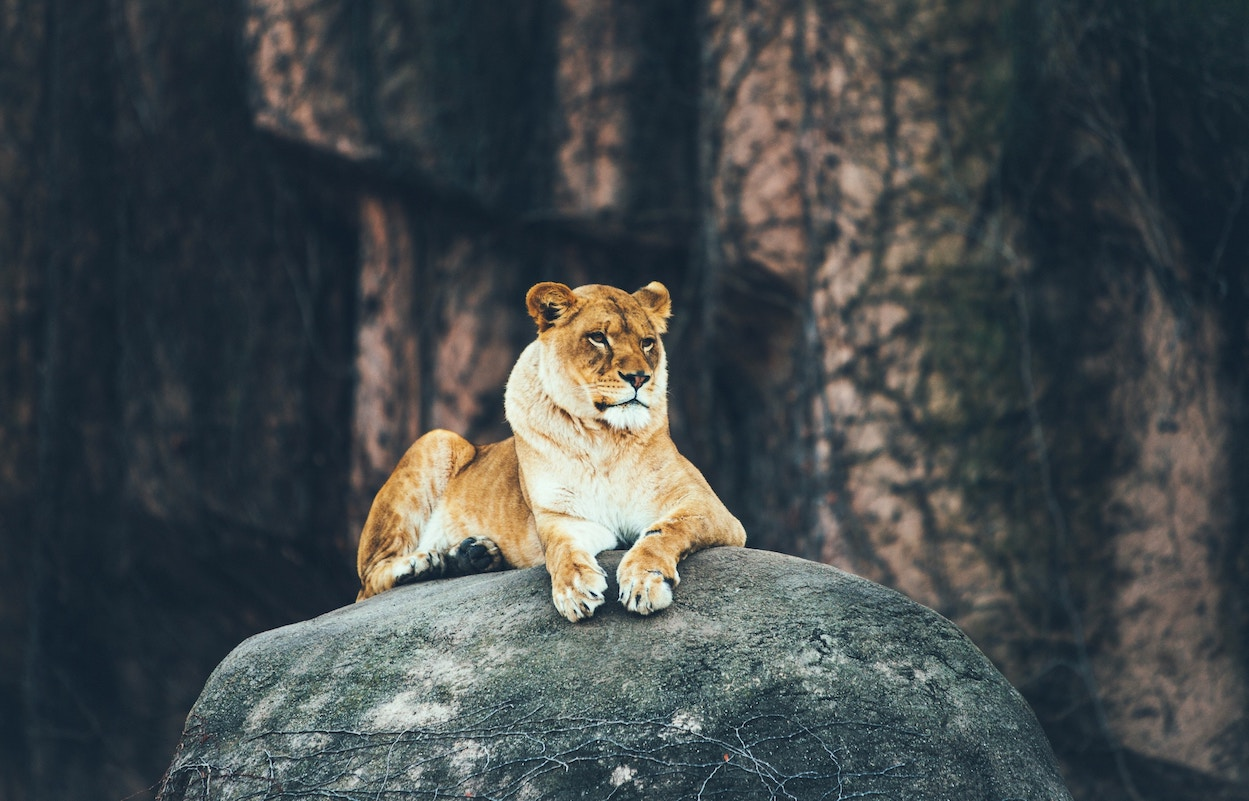
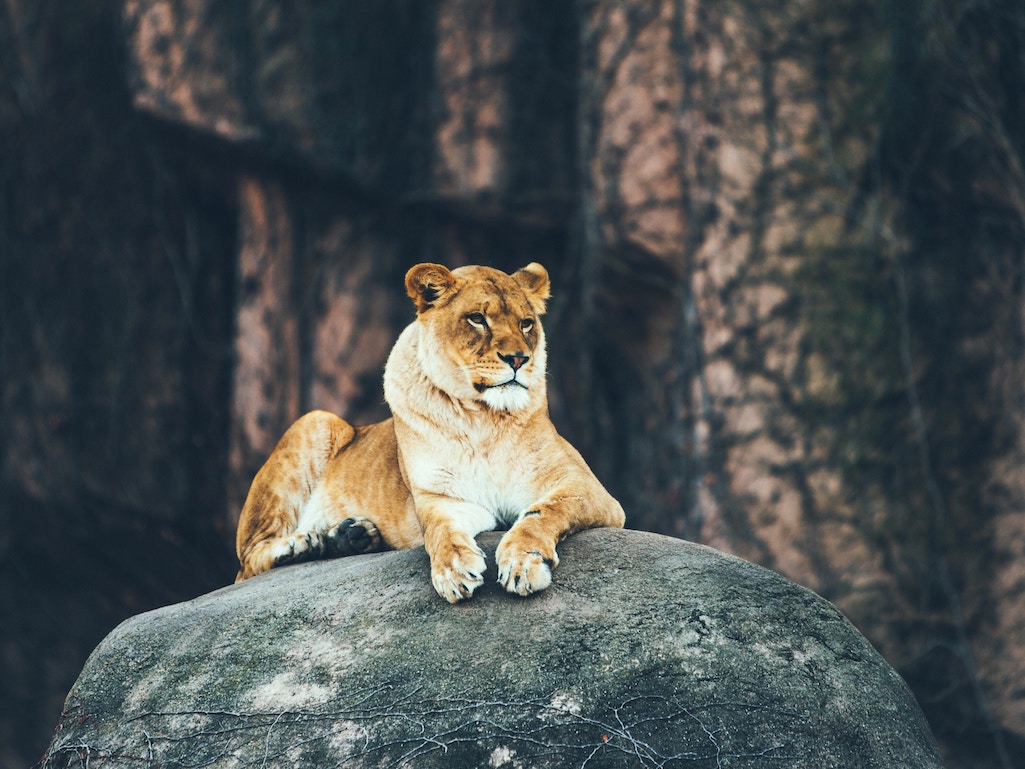
fix media queries for bg-img

diff --git a/css/master.css b/css/master.css
@@ -10,7 +10,7 @@ body,
 body.bgimg {
 	background: url("../images/lion.jpg") no-repeat center center fixed;
     background-size: cover;
-    /*max-width: 100%;
+   /* max-width: 100%;
     height: auto;
     display: block;*/
 }
@@ -30,14 +30,26 @@ body.bgimg {
 	    display: block;*/
 	}
 }
-@media (min-width: 451px) and (max-width: 1025px) {
+@media (min-width: 451px) and (max-width: 768px) {
 	body.bgimg {
 		background: url("../images/lion_md.jpg") no-repeat;
 	}
 }
-@media (min-height: 416px) and (max-width: 770px) {
+@media (min-height: 767px) and (max-height: 1025px) {
+	body.bgimg {
+		background: url("../images/lion_md.jpg") no-repeat;
+	}
+}
+@media (min-height: 416px) and (max-height: 770px) {
 	body.bgimg {
 		background: url("../images/lion_md_sq.jpg") no-repeat;
+		background-size: cover;
+	}
+}
+@media (min-width: 769px) and (max-width: 1025px) {
+	body.bgimg {
+		background: url("../images/lion_md_sq.jpg") no-repeat;
+		background-size: cover;
 	}
 }
 a {
